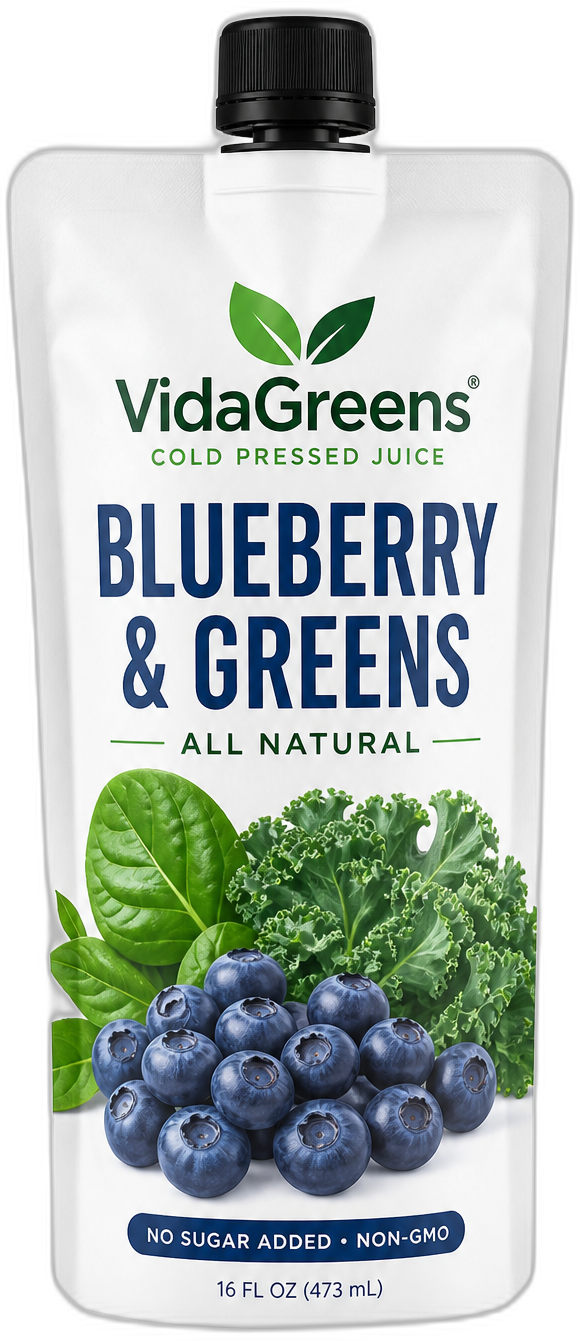
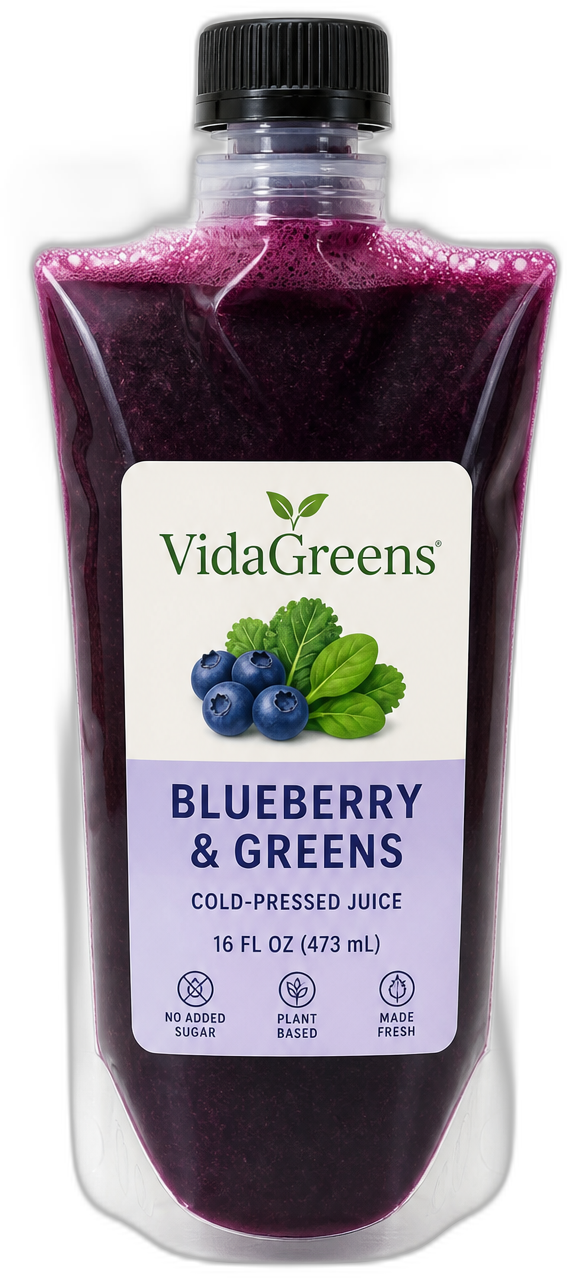
Use clear pouches, four flavors, pickup and shipping
Limit the menu to Watermelon Strawberry Chia, Chocolate Almond,
Blueberry & Greens, and Pineapple & Greens. Swap product art to clear
pouches and surface pickup plus shipping across hero, order, and footer.

diff --git a/index.html b/index.html
@@ -5,10 +5,10 @@
     <meta name="viewport" content="width=device-width, initial-scale=1" />
     <meta
       name="description"
-      content="VidaGreens — all-natural cold-pressed juice in 16 oz pouches. Fresh from Huntington Park."
+      content="VidaGreens — all-natural cold-pressed juice in clear 16 oz pouches. Pickup and shipping available from Huntington Park."
     />
     <meta name="theme-color" content="#1F3D2C" />
-    <title>VidaGreens — 16 oz Cold-Pressed Juice Pouches</title>
+    <title>VidaGreens — Clear 16 oz Juice Pouches</title>
     <link rel="icon" type="image/svg+xml" href="favicon.svg" />
     <link rel="preconnect" href="https://fonts.googleapis.com" />
     <link rel="preconnect" href="https://fonts.gstatic.com" crossorigin />
@@ -33,8 +33,8 @@
       <nav class="nav__links" id="nav-links" aria-label="Primary">
         <a href="#pouches">Pouches</a>
         <a href="#craft">Craft</a>
-        <a href="#visit">Visit</a>
-        <a class="nav__cta" href="#visit">Order pickup</a>
+        <a href="#visit">Order</a>
+        <a class="nav__cta" href="#visit">Pickup or ship</a>
       </nav>
     </header>
 
@@ -43,107 +43,53 @@
         <div class="hero__stage">
           <img
             class="hero__pouch"
-            src="images/pouch-verde.png"
-            alt="VidaGreens Verde 16 fl oz cold-pressed juice pouch"
-            width="664"
-            height="1432"
+            src="images/pouch-watermelon.png"
+            alt="VidaGreens Watermelon Strawberry Chia clear 16 fl oz juice pouch"
+            width="656"
+            height="1479"
             fetchpriority="high"
           />
         </div>
         <div class="hero__copy">
           <p class="hero__brand">VidaGreens</p>
-          <h1 class="hero__headline">Cold-pressed juice in a 16 oz pouch.</h1>
+          <h1 class="hero__headline">Clear 16 oz pouches. Pickup or shipping.</h1>
           <p class="hero__support">
-            All-natural. Nothing added. Pressed in Huntington Park and sealed fresh for the day.
+            All-natural cold-pressed juice you can see—pressed in Huntington Park, ready for local
+            pickup or shipped to your door.
           </p>
           <div class="hero__actions">
-            <a class="btn btn--primary" href="#pouches">See the pouches</a>
-            <a class="btn btn--ghost" href="#visit">Find us</a>
+            <a class="btn btn--primary" href="#visit">Order now</a>
+            <a class="btn btn--ghost" href="#pouches">See flavors</a>
           </div>
-          <p class="hero__spec">16 FL OZ · 473 mL · Cold pressed · All natural</p>
+          <p class="hero__spec">16 FL OZ · Clear pouch · Pickup &amp; shipping available</p>
         </div>
       </section>
 
       <section class="section pouches" id="pouches">
         <div class="section__header reveal">
           <p class="eyebrow">The lineup</p>
-          <h2 class="section__title">Eight pouches. One honest press.</h2>
+          <h2 class="section__title">Four clear pouches. Same honest press.</h2>
           <p class="section__lede">
-            Soft matte 16 oz spout pouches—greens, fruit, and plant-based sips for every kind of day.
+            Transparent 16 oz spout pouches—see the pour. Available for pickup in Huntington Park or
+            shipping nationwide.
           </p>
         </div>
 
         <div class="pouch-rail">
-          <article class="pouch-row reveal" style="--accent: #5a8f3c">
-            <div class="pouch-row__visual">
-              <img src="images/pouch-verde.png" alt="Verde 16 oz pouch" loading="lazy" />
-            </div>
-            <div class="pouch-row__body">
-              <p class="pouch-row__meta">16 FL OZ · Daily green</p>
-              <h3 class="pouch-row__name">Verde</h3>
-              <p class="pouch-row__desc">
-                Kale, cucumber, celery, green apple, lemon, and ginger—bright and clean for every
-                morning.
-              </p>
-              <p class="pouch-row__ingredients">Kale · Cucumber · Celery · Green apple · Lemon · Ginger</p>
-            </div>
-          </article>
-
-          <article class="pouch-row reveal" style="--accent: #d4893a">
-            <div class="pouch-row__visual">
-              <img src="images/pouch-sunrise.png" alt="Sunrise 16 oz pouch" loading="lazy" />
-            </div>
-            <div class="pouch-row__body">
-              <p class="pouch-row__meta">16 FL OZ · Golden glow</p>
-              <h3 class="pouch-row__name">Sunrise</h3>
-              <p class="pouch-row__desc">
-                Carrot, orange, turmeric, ginger, and lemon—a warm pour that tastes like Huntington
-                Park mornings.
-              </p>
-              <p class="pouch-row__ingredients">Carrot · Orange · Turmeric · Ginger · Lemon</p>
-            </div>
-          </article>
-
-          <article class="pouch-row reveal" style="--accent: #9b3a4a">
-            <div class="pouch-row__visual">
-              <img src="images/pouch-raiz.png" alt="Raíz 16 oz pouch" loading="lazy" />
-            </div>
-            <div class="pouch-row__body">
-              <p class="pouch-row__meta">16 FL OZ · Deep root</p>
-              <h3 class="pouch-row__name">Raíz</h3>
-              <p class="pouch-row__desc">
-                Beet and berry rooted in bright citrus—bold color, balanced sweetness, nothing
-                artificial.
-              </p>
-              <p class="pouch-row__ingredients">Beet · Raspberry · Strawberry · Apple · Lemon</p>
-            </div>
-          </article>
-
-          <article class="pouch-row reveal" style="--accent: #c9a227">
-            <div class="pouch-row__visual">
-              <img src="images/pouch-tropic.png" alt="Tropic 16 oz pouch" loading="lazy" />
-            </div>
-            <div class="pouch-row__body">
-              <p class="pouch-row__meta">16 FL OZ · Island lift</p>
-              <h3 class="pouch-row__name">Tropic</h3>
-              <p class="pouch-row__desc">
-                Pineapple, mango, passion fruit, mint, and lime—tropical brightness without the sugar
-                crash.
-              </p>
-              <p class="pouch-row__ingredients">Pineapple · Mango · Passion fruit · Mint · Lime</p>
-            </div>
-          </article>
-
           <article class="pouch-row reveal" style="--accent: #d1313d">
             <div class="pouch-row__visual">
-              <img src="images/pouch-watermelon.png" alt="Watermelon Strawberry Chia 16 oz pouch" loading="lazy" />
+              <img
+                src="images/pouch-watermelon.png"
+                alt="Watermelon Strawberry Chia clear 16 oz pouch"
+                loading="lazy"
+              />
             </div>
             <div class="pouch-row__body">
-              <p class="pouch-row__meta">16 FL OZ · Hydrate &amp; glow</p>
+              <p class="pouch-row__meta">16 FL OZ · Clear pouch</p>
               <h3 class="pouch-row__name">Watermelon Strawberry Chia</h3>
               <p class="pouch-row__desc">
-                Juicy watermelon and ripe strawberry with chia for a soft, satisfying finish—made with
-                real fruit.
+                Juicy watermelon and ripe strawberry with chia for a soft, satisfying
+                finish—hydrating and bright.
               </p>
               <p class="pouch-row__ingredients">Watermelon · Strawberry · Chia · Lemon</p>
             </div>
@@ -151,10 +97,14 @@
 
           <article class="pouch-row reveal" style="--accent: #5c4033">
             <div class="pouch-row__visual">
-              <img src="images/pouch-chocolate.png" alt="Chocolate Almond 16 oz pouch" loading="lazy" />
+              <img
+                src="images/pouch-chocolate.png"
+                alt="Chocolate Almond clear 16 oz pouch"
+                loading="lazy"
+              />
             </div>
             <div class="pouch-row__body">
-              <p class="pouch-row__meta">16 FL OZ · Plant-based</p>
+              <p class="pouch-row__meta">16 FL OZ · Clear pouch</p>
               <h3 class="pouch-row__name">Chocolate Almond</h3>
               <p class="pouch-row__desc">
                 Cacao almond drink with real almonds and Dutch cocoa—dairy-free, rich, and smooth.
@@ -165,10 +115,14 @@
 
           <article class="pouch-row reveal" style="--accent: #3d5a9b">
             <div class="pouch-row__visual">
-              <img src="images/pouch-blueberry.png" alt="Blueberry &amp; Greens 16 oz pouch" loading="lazy" />
+              <img
+                src="images/pouch-blueberry.png"
+                alt="Blueberry &amp; Greens clear 16 oz pouch"
+                loading="lazy"
+              />
             </div>
             <div class="pouch-row__body">
-              <p class="pouch-row__meta">16 FL OZ · Berry greens</p>
+              <p class="pouch-row__meta">16 FL OZ · Clear pouch</p>
               <h3 class="pouch-row__name">Blueberry &amp; Greens</h3>
               <p class="pouch-row__desc">
                 Sweet blueberry meets leafy greens for an antioxidant-bright press that still tastes
@@ -180,10 +134,14 @@
 
           <article class="pouch-row reveal" style="--accent: #6fa33a">
             <div class="pouch-row__visual">
-              <img src="images/pouch-pineapple.png" alt="Pineapple &amp; Greens 16 oz pouch" loading="lazy" />
+              <img
+                src="images/pouch-pineapple.png"
+                alt="Pineapple &amp; Greens clear 16 oz pouch"
+                loading="lazy"
+              />
             </div>
             <div class="pouch-row__body">
-              <p class="pouch-row__meta">16 FL OZ · Tropical greens</p>
+              <p class="pouch-row__meta">16 FL OZ · Clear pouch</p>
               <h3 class="pouch-row__name">Pineapple &amp; Greens</h3>
               <p class="pouch-row__desc">
                 Sunny pineapple lifted by greens—tangy, fresh, and built for an afternoon reset.
@@ -201,9 +159,10 @@
         </div>
         <div class="craft__copy reveal">
           <p class="eyebrow">The craft</p>
-          <h2 class="section__title">Pressed clean. Packed soft.</h2>
+          <h2 class="section__title">Pressed clean. Packed clear.</h2>
           <p class="section__lede">
-            Same cold-press care as a bottle—sealed in a 16 oz spout pouch you can take anywhere.
+            Cold-pressed and filled into clear 16 oz spout pouches—so you see exactly what you’re
+            drinking. Pickup locally or ship to your door.
           </p>
           <ol class="craft__steps">
             <li>
@@ -223,8 +182,8 @@
             <li>
               <span>03</span>
               <div>
-                <h3>Fill fresh</h3>
-                <p>Poured the day it’s made into soft matte 16 oz pouches.</p>
+                <h3>Fill clear</h3>
+                <p>Poured fresh into clear 16 oz pouches—pickup or shipping the same day.</p>
               </div>
             </li>
           </ol>
@@ -234,19 +193,26 @@
       <section class="visit section" id="visit">
         <div class="visit__layout">
           <div class="visit__copy reveal">
-            <p class="eyebrow">Huntington Park</p>
-            <h2 class="section__title">Grab a pouch on Pacific.</h2>
+            <p class="eyebrow">Order</p>
+            <h2 class="section__title">Pickup or shipping—your call.</h2>
             <p class="section__lede">
-              Pickup at the bar—pressed that morning, waiting in the cooler.
+              Grab clear pouches at the Huntington Park bar, or have them shipped cold to your door.
             </p>
             <dl class="visit__details">
               <div>
-                <dt>Address</dt>
-                <dd>6120 Pacific Blvd<br />Huntington Park, CA 90255</dd>
+                <dt>Pickup</dt>
+                <dd>
+                  6120 Pacific Blvd<br />
+                  Huntington Park, CA 90255<br />
+                  <span class="visit__note">Mon–Sat 7am–7pm · Sun 8am–4pm</span>
+                </dd>
               </div>
               <div>
-                <dt>Hours</dt>
-                <dd>Mon–Sat · 7am–7pm<br />Sun · 8am–4pm</dd>
+                <dt>Shipping</dt>
+                <dd>
+                  Cold-packed shipping available nationwide.<br />
+                  <span class="visit__note">Order by email—we confirm before we ship.</span>
+                </dd>
               </div>
               <div>
                 <dt>Contact</dt>
@@ -254,20 +220,18 @@
               </div>
             </dl>
             <div class="hero__actions visit__actions">
-              <a class="btn btn--primary" href="mailto:hola@vidagreens.com">Order for pickup</a>
-              <a
-                class="btn btn--outline"
-                href="https://maps.google.com/?q=6120+Pacific+Blvd+Huntington+Park+CA"
-                target="_blank"
-                rel="noreferrer"
-                >Get directions</a
+              <a class="btn btn--primary" href="mailto:hola@vidagreens.com?subject=Pickup%20order"
+                >Order for pickup</a
+              >
+              <a class="btn btn--outline" href="mailto:hola@vidagreens.com?subject=Shipping%20order"
+                >Order shipping</a
               >
             </div>
           </div>
           <div class="visit__cluster reveal" aria-hidden="true">
-            <img class="visit__pouch visit__pouch--a" src="images/pouch-watermelon.png" alt="" />
-            <img class="visit__pouch visit__pouch--b" src="images/pouch-verde.png" alt="" />
-            <img class="visit__pouch visit__pouch--c" src="images/pouch-blueberry.png" alt="" />
+            <img class="visit__pouch visit__pouch--a" src="images/pouch-blueberry.png" alt="" />
+            <img class="visit__pouch visit__pouch--b" src="images/pouch-watermelon.png" alt="" />
+            <img class="visit__pouch visit__pouch--c" src="images/pouch-pineapple.png" alt="" />
           </div>
         </div>
       </section>
@@ -277,18 +241,20 @@
       <div class="footer__top">
         <div>
           <p class="footer__brand">VidaGreens</p>
-          <p class="footer__tag">All-natural cold-pressed juice · 16 oz pouches · Huntington Park</p>
+          <p class="footer__tag">
+            Clear 16 oz cold-pressed pouches · Pickup &amp; shipping · Huntington Park
+          </p>
         </div>
         <nav class="footer__nav" aria-label="Footer">
           <a href="#pouches">Pouches</a>
           <a href="#craft">Craft</a>
-          <a href="#visit">Visit</a>
+          <a href="#visit">Order</a>
           <a href="mailto:hola@vidagreens.com">Contact</a>
         </nav>
       </div>
       <div class="footer__bottom">
         <p>© <span id="year"></span> VidaGreens. Pressed with care.</p>
-        <p>16 FL OZ (473 mL)</p>
+        <p>Pickup &amp; shipping available</p>
       </div>
     </footer>
 

diff --git a/styles.css b/styles.css
@@ -690,6 +690,14 @@ button {
   line-height: 1.4;
 }
 
+.visit__note {
+  display: inline-block;
+  margin-top: 0.25rem;
+  font-size: 0.92rem;
+  font-weight: 300;
+  color: var(--muted);
+}
+
 .visit__actions {
   opacity: 1;
   transform: none;

diff --git a/README.md b/README.md
@@ -1,6 +1,7 @@
 # VidaGreens
 
-Static site for **VidaGreens** — all-natural cold-pressed juice in **16 oz pouches**, Huntington Park, CA.
+Static site for **VidaGreens** — all-natural cold-pressed juice in **clear 16 oz pouches**.  
+**Pickup and shipping available** from Huntington Park, CA.
 
 ## Open in the browser (no npm)
 
@@ -11,13 +12,9 @@ git checkout cursor/huerta-juicery-website-9917
 
 Open **`index.html`** in Chrome (double-click).
 
-To publish later: GitHub → **Settings → Pages** → Deploy from branch → `/` (root).
+## Flavors
 
-## Lineup
-
-Verde · Sunrise · Raíz · Tropic · Watermelon Strawberry Chia · Chocolate Almond · Blueberry & Greens · Pineapple & Greens
-
-## Files
-
-- `index.html` / `styles.css` / `script.js`
-- `images/*.png` — transparent 16 oz pouch cutouts
+1. Watermelon Strawberry Chia  
+2. Chocolate Almond  
+3. Blueberry & Greens  
+4. Pineapple & Greens  
